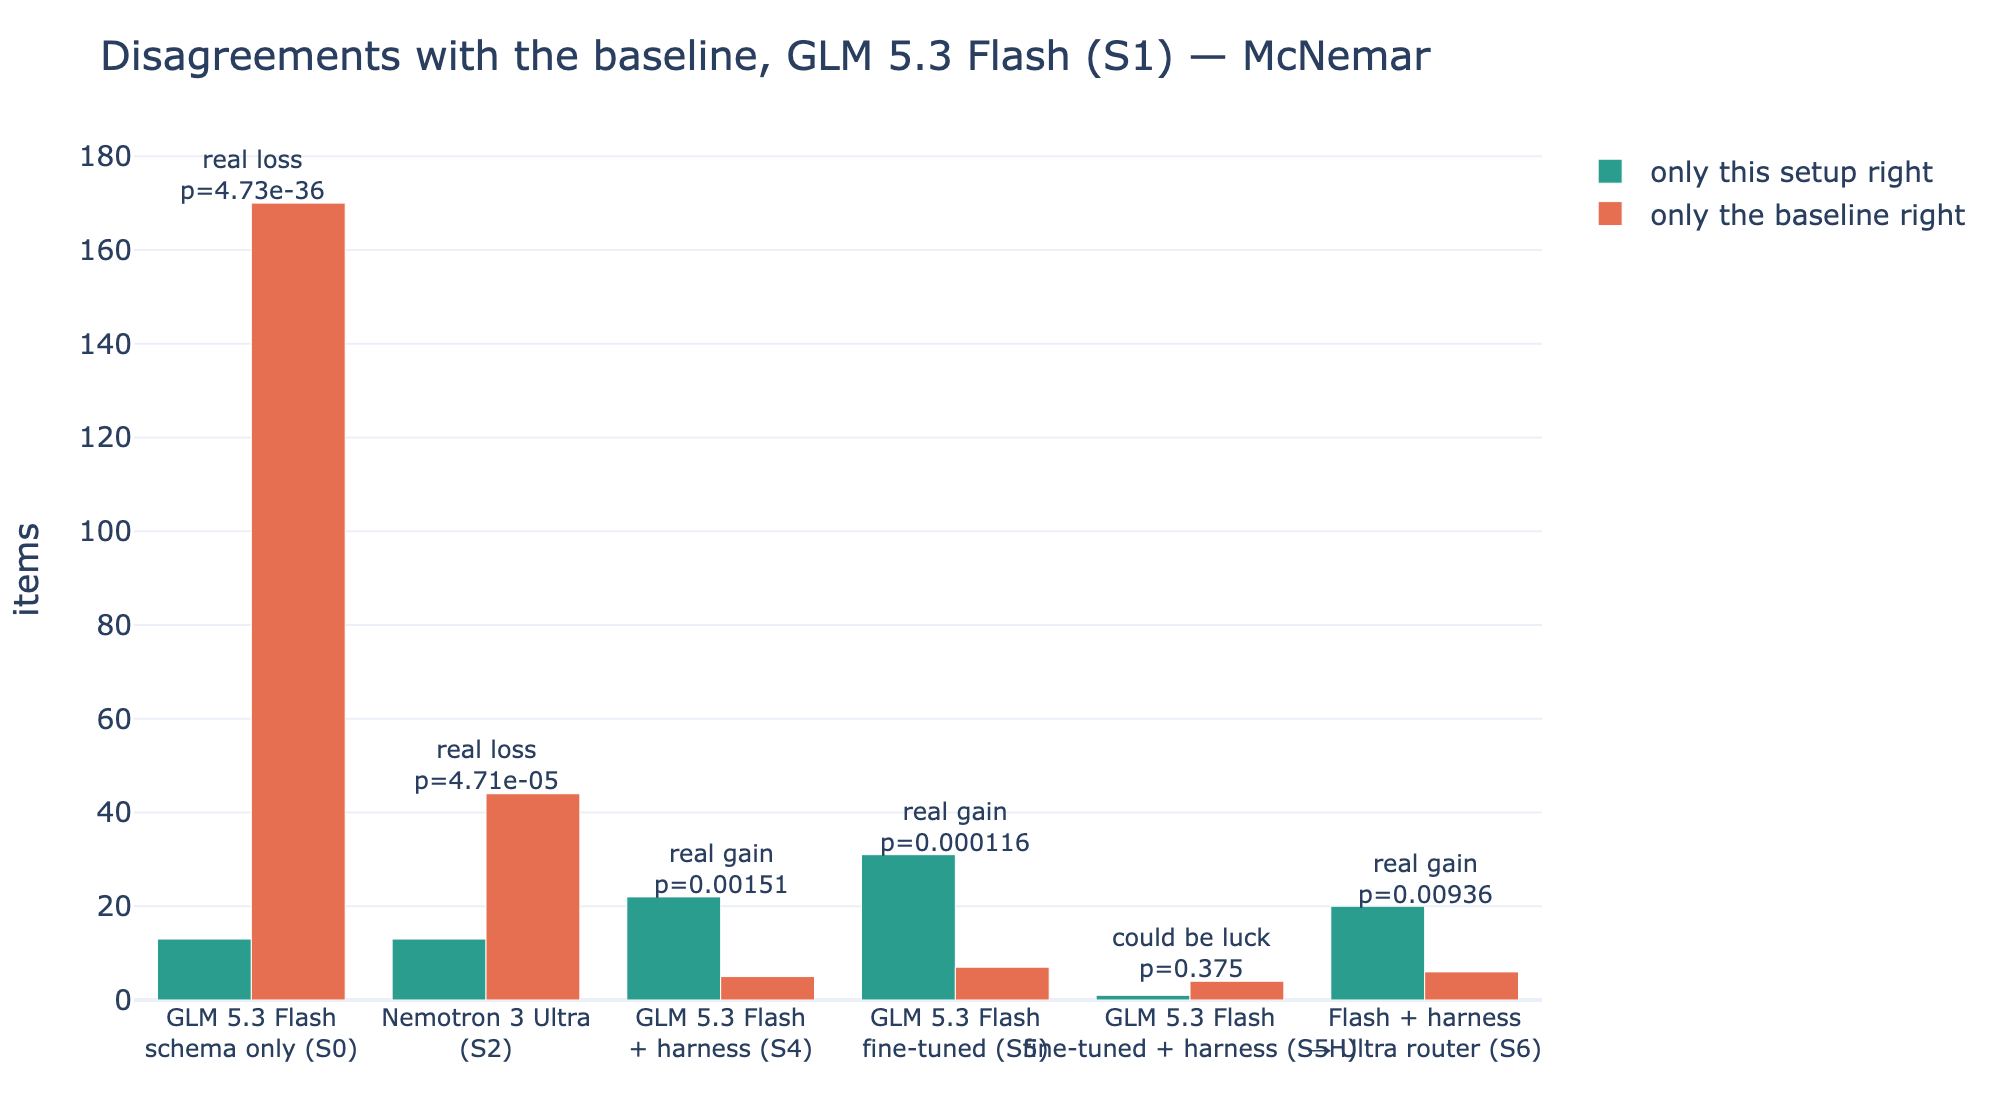
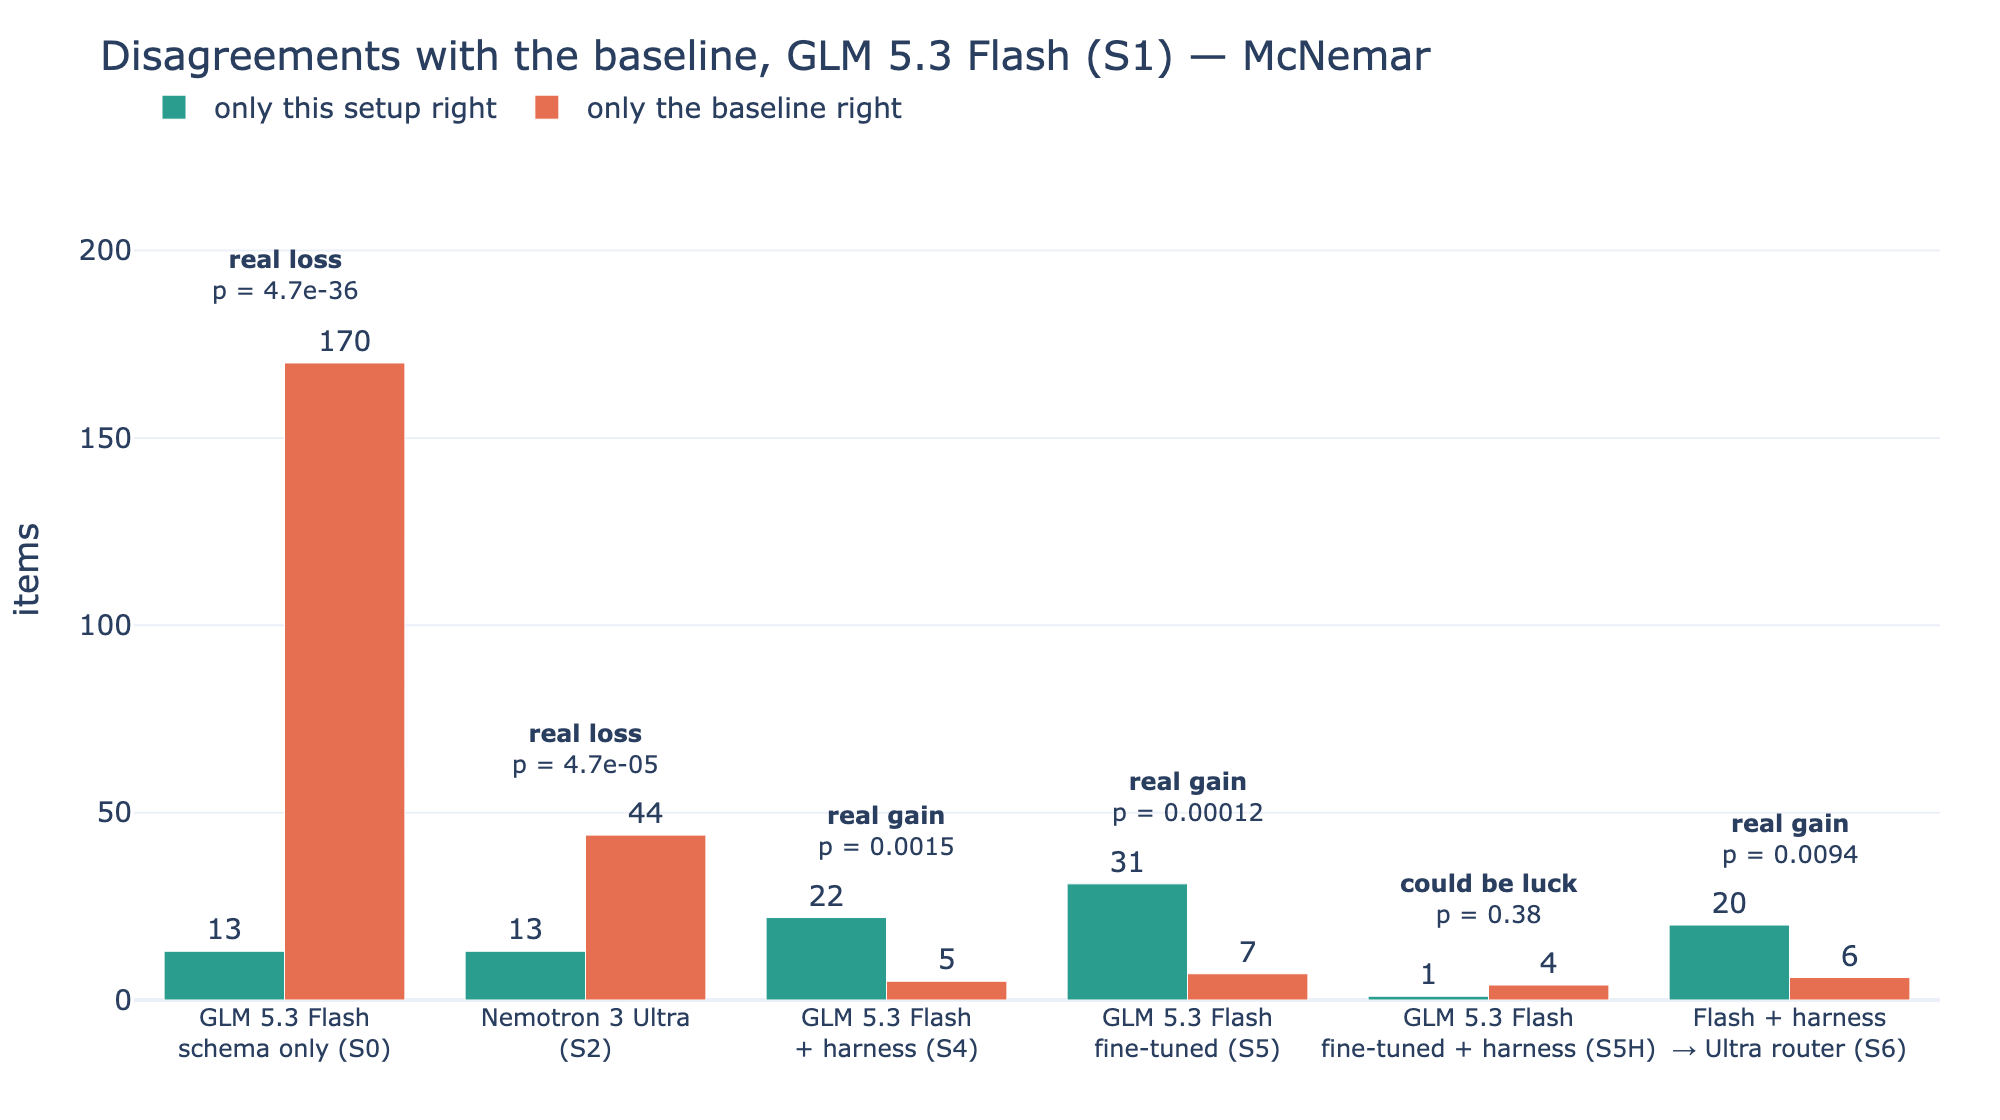
Headline S4 vs S1, watches-gifts default ticket, non-overlapping significance labels, Ask intro + How it works

diff --git a/eval/report.py b/eval/report.py
@@ -19,6 +19,7 @@ from eval.stats import compare_runs, load_run  # noqa: E402
 CFG = yaml.safe_load(open(ROOT / "config.yaml"))
 FIG = ROOT / CFG["paths"]["figures"]
 SETUPS = ["S0", "S1", "S2", "S4", "S5", "S5H", "S6"]
+HEADLINE_SETUP = "S4"  # recommended production setup (README findings)
 # Model name first, setup code as a tag (codes match eval/runs/ and config.yaml).
 LABELS = {"S0": "GLM 5.3 Flash, schema only (S0)", "S1": "GLM 5.3 Flash + dictionary, baseline (S1)",
           "S2": "Nemotron 3 Ultra + dictionary (S2)", "S4": "GLM 5.3 Flash + harness (S4)",
@@ -104,23 +105,34 @@ def main():
         }
     small = [s for s in present if s not in ("S1", "S2", "S0")]
     best = max(small, key=lambda s: summ[s]["combined"]["exec_accuracy"]) if small else None
+    # Headline = the recommended production setup (S4), not simply the top combined score: S5 scores higher
+    # on the frozen test but drops on hand-written questions (see README findings).
+    head = HEADLINE_SETUP if HEADLINE_SETUP in present else best
 
     # 1. Headline table
-    b, n = summ["S1"]["combined"], summ[best]["combined"] if best else None
+    b, n = summ["S1"]["combined"], summ[head]["combined"] if head else None
     headline = [("Execution accuracy (answer items)", b["exec_accuracy"], n and n["exec_accuracy"], True),
+                ("Hand-written questions (n = 30)", summ["S1"]["handwritten"]["exec_accuracy"],
+                 summ[head].get("handwritten", {}).get("exec_accuracy"), True),
                 ("Behavior accuracy (clarify/refuse)", b["behavior_accuracy"], n and n["behavior_accuracy"], True),
                 ("Cost per 1k tickets (USD)", b["cost_per_1k"], n and n["cost_per_1k"], False),
                 ("p50 latency (ms)", b["p50_latency_ms"], n and n["p50_latency_ms"], False)]
-    md = [f"### Headline: {LABELS[best]} vs S1 baseline (combined test + hand-written)\n",
-          "| Metric | S1 baseline | Best | Gain |", "|---|---|---|---|"]
+    md = [f"### Headline: {LABELS[head]} vs {LABELS['S1']} (combined test + hand-written)\n",
+          f"| Metric | {LABELS['S1']} | {LABELS[head]} | Gain |", "|---|---|---|---|"]
     for name, x, y, pct in headline:
         gain = None if y is None or x is None else (gap_pts(y, x) if pct else y - x)
         g = "-" if gain is None else (f"{gain:+.1f} pts" if pct else f"{gain:+.3f}" if isinstance(gain, float) else f"{gain:+d}")
         md.append(f"| {name} | {fmt(x, pct)} | {fmt(y, pct)} | {g} |")
-    st = stats[best]["answer_combined"]
+    st = stats[head]["answer_combined"]
     md.append(f"\nAccuracy gap {gap_pts(st['new_acc'], st['base_acc']):+.1f} pts, 95% cluster-bootstrap CI [{100 * st['ci95'][0]:+.1f}, "
-              f"{100 * st['ci95'][1]:+.1f}], McNemar p = {st['p_value']:.4f} ({st['only_new_right']} items only {best} "
+              f"{100 * st['ci95'][1]:+.1f}], McNemar p = {st['p_value']:.4f} ({st['only_new_right']} items only {head} "
               f"got right vs {st['only_base_right']} only S1 got right) -> **{st['verdict']}**.\n")
+    if best and best != head:
+        v = stats[best]["answer_combined"]
+        md.append(f"{LABELS[best]} has the highest combined score ({fmt(summ[best]['combined']['exec_accuracy'])}, "
+                  f"{gap_pts(v['new_acc'], v['base_acc']):+.1f} pts vs S1), but drops on the hand-written questions "
+                  f"({fmt(summ[best].get('handwritten', {}).get('exec_accuracy'))} vs "
+                  f"{fmt(summ['S1']['handwritten']['exec_accuracy'])}), so it is not the headline. See the findings below.\n")
 
     # Summary table
     md += ["### All setups\n",
@@ -176,16 +188,21 @@ def main():
     # 3. Significance chart
     comp = [s for s in ["S0", "S2", "S4", "S5", "S5H", "S6"] if s in stats and stats[s]["answer_combined"]]
     fig = go.Figure()
-    fig.add_bar(name="only this setup right", x=[CHART[s] for s in comp],
-                y=[stats[s]["answer_combined"]["only_new_right"] for s in comp], marker_color="#2a9d8f")
-    fig.add_bar(name="only the baseline right", x=[CHART[s] for s in comp],
-                y=[stats[s]["answer_combined"]["only_base_right"] for s in comp], marker_color="#e76f51")
-    for s in comp:
+    new_right = [stats[s]["answer_combined"]["only_new_right"] for s in comp]
+    base_right = [stats[s]["answer_combined"]["only_base_right"] for s in comp]
+    fig.add_bar(name="only this setup right", x=[CHART[s] for s in comp], y=new_right, marker_color="#2a9d8f",
+                text=new_right, textposition="outside", cliponaxis=False)
+    fig.add_bar(name="only the baseline right", x=[CHART[s] for s in comp], y=base_right, marker_color="#e76f51",
+                text=base_right, textposition="outside", cliponaxis=False)
+    top = max(new_right + base_right)
+    for s, a, b_ in zip(comp, new_right, base_right):
         v = stats[s]["answer_combined"]
-        fig.add_annotation(x=CHART[s], y=max(v["only_new_right"], v["only_base_right"]) + 6,
-                           text=f"{v['verdict']}<br>p={v['p_value']:.3g}", showarrow=False, font=dict(size=12))
+        # Verdict sits above both bars and their value labels, anchored at its bottom so it never overlaps them.
+        fig.add_annotation(x=CHART[s], y=max(a, b_), yanchor="bottom", yshift=26, showarrow=False,
+                           text=f"<b>{v['verdict']}</b><br>p = {v['p_value']:.2g}", font=dict(size=12))
     fig.update_layout(title="Disagreements with the baseline, GLM 5.3 Flash (S1) — McNemar", barmode="group",
-                      yaxis_title="items")
+                      yaxis=dict(title="items", range=[0, top * 1.35]),
+                      legend=dict(orientation="h", yanchor="bottom", y=1.0, x=0))
     save(fig, "significance", category_x=True)
 
     # 4. Interval chart
@@ -225,7 +242,7 @@ def main():
                       yaxis=dict(title="accuracy (%)", range=[0, 105]))
     save(fig, "seen_unseen", category_x=True)
 
-    json.dump({"best_setup": best, "summaries": summ, "stats_vs_S1": stats}, open(ROOT / "eval" / "summary.json", "w"), indent=1)
+    json.dump({"best_setup": best, "headline_setup": head, "summaries": summ, "stats_vs_S1": stats}, open(ROOT / "eval" / "summary.json", "w"), indent=1)
     readme = ROOT / "README.md"
     if readme.exists():
         text = readme.read_text()

diff --git a/app/streamlit_app.py b/app/streamlit_app.py
@@ -225,7 +225,28 @@ page = st.sidebar.radio("Page", ["Ask", "Benchmark", "Audit log"])
 
 if page == "Ask":
     st.title("QueryForge")
-    st.caption("Ask a data question in plain English. Answers come from the Olist database (as of 2018-08-31), read-only.")
+    st.markdown(
+        "Ask a data question the way you'd write a ticket. QueryForge writes the SQL, runs it read-only against the "
+        "Olist e-commerce database (data as of 2018-08-31), checks the result, and answers in seconds, with the SQL "
+        "and the business rules it applied. Compare mode runs the same ticket on the plain baseline model so you can "
+        "see the difference.")
+    with st.expander("How it works"):
+        st.markdown(
+            "1. **Pre-filter:** requests to change or delete data, requests for personal data, prompt injection and "
+            "non-data questions are refused before any model call.\n"
+            "2. **Context:** the model, GLM 5.3 Flash on Fireworks, gets the schema, the company's **business "
+            "rules** (valid order, GMV, active seller, late delivery, fiscal year, as-of date…) and the real values of "
+            "key columns (statuses, states, category names).\n"
+            "3. **SQL:** the model returns one SELECT query, or asks a clarifying question if the ticket is ambiguous.\n"
+            "4. **Safety:** the query is parsed, must be a single read-only SELECT, and can only use known tables. It "
+            "runs on a read-only connection with a 10-second timeout.\n"
+            "5. **Retry and checks:** if the query fails, the error goes back to the model (up to 2 retries). Sanity "
+            "checks catch empty results, rates outside 0–1 and too many rows, and the model gets one chance to repair.\n"
+            "6. **Answer:** a plain-English answer, the table, the SQL, the rules applied and a confidence level. Every "
+            "ticket is written to the audit log, where a reviewer can approve or flag it.\n\n"
+            "**Baseline vs QueryForge:** both use GLM 5.3 Flash with the same prompt and business rules. The baseline "
+            "is a single model call. QueryForge adds steps 1, 2 (column values), 5 and the review flow. On the frozen "
+            "benchmark that lifts accuracy from 90.7% to 94.9% (p = 0.0015). See the Benchmark page.")
     c1, c2, c3 = st.columns([2, 1, 1])
     requester = c1.text_input("Requester", "kam@company.com")
     role = c2.selectbox("Role", ["analyst", "pm", "auditor", "ops"])
@@ -241,7 +262,7 @@ if page == "Ask":
     for col, (label, question) in zip(st.columns(len(EXAMPLES)), EXAMPLES):
         col.button(label, key=f"ex_{label}", on_click=use_example, args=(question,), width="stretch", help=question)
 
-    st.session_state.setdefault("ticket", "whats the late delivery rate by customer region for last month")
+    st.session_state.setdefault("ticket", "how many watches gifts products are in the catalog")
     q = st.text_area("Ticket", height=90, key="ticket")
     t1, t2 = st.columns(2)
     compare_mode = t1.toggle("Compare Baseline (GLM 5.3 Flash) vs QueryForge (GLM 5.3 Flash + harness)",

diff --git a/README.md b/README.md
@@ -33,16 +33,19 @@ ticket ─► pre-filter ─► model writes SQL ─► safety check ─► read
 | S6 | GLM 5.3 Flash + harness, escalating to Nemotron 3 Ultra |
 
 <!-- RESULTS:START -->
-### Headline: GLM 5.3 Flash fine-tuned (S5) vs S1 baseline (combined test + hand-written)
+### Headline: GLM 5.3 Flash + harness (S4) vs GLM 5.3 Flash + dictionary, baseline (S1) (combined test + hand-written)
 
-| Metric | S1 baseline | Best | Gain |
+| Metric | GLM 5.3 Flash + dictionary, baseline (S1) | GLM 5.3 Flash + harness (S4) | Gain |
 |---|---|---|---|
-| Execution accuracy (answer items) | 90.7% | 96.7% | +6.0 pts |
-| Behavior accuracy (clarify/refuse) | 92.0% | 100.0% | +8.0 pts |
-| Cost per 1k tickets (USD) | 0.4674 | 0.2907 | -0.177 |
-| p50 latency (ms) | 3143 | 4008 | +865 |
+| Execution accuracy (answer items) | 90.7% | 94.9% | +4.2 pts |
+| Hand-written questions (n = 30) | 83.3% | 90.0% | +6.7 pts |
+| Behavior accuracy (clarify/refuse) | 92.0% | 92.0% | +0.0 pts |
+| Cost per 1k tickets (USD) | 0.4674 | 0.523 | +0.056 |
+| p50 latency (ms) | 3143 | 3240 | +97 |
 
-Accuracy gap +6.0 pts, 95% cluster-bootstrap CI [+1.8, +11.0], McNemar p = 0.0001 (31 items only S5 got right vs 7 only S1 got right) -> **real gain**.
+Accuracy gap +4.2 pts, 95% cluster-bootstrap CI [+1.1, +7.9], McNemar p = 0.0015 (22 items only S4 got right vs 5 only S1 got right) -> **real gain**.
+
+GLM 5.3 Flash fine-tuned (S5) has the highest combined score (96.7%, +6.0 pts vs S1), but drops on the hand-written questions (70.0% vs 83.3%), so it is not the headline. See the findings below.
 
 ### All setups
 

diff --git a/eval/results.md b/eval/results.md
@@ -1,13 +1,16 @@
-### Headline: GLM 5.3 Flash fine-tuned (S5) vs S1 baseline (combined test + hand-written)
+### Headline: GLM 5.3 Flash + harness (S4) vs GLM 5.3 Flash + dictionary, baseline (S1) (combined test + hand-written)
 
-| Metric | S1 baseline | Best | Gain |
+| Metric | GLM 5.3 Flash + dictionary, baseline (S1) | GLM 5.3 Flash + harness (S4) | Gain |
 |---|---|---|---|
-| Execution accuracy (answer items) | 90.7% | 96.7% | +6.0 pts |
-| Behavior accuracy (clarify/refuse) | 92.0% | 100.0% | +8.0 pts |
-| Cost per 1k tickets (USD) | 0.4674 | 0.2907 | -0.177 |
-| p50 latency (ms) | 3143 | 4008 | +865 |
+| Execution accuracy (answer items) | 90.7% | 94.9% | +4.2 pts |
+| Hand-written questions (n = 30) | 83.3% | 90.0% | +6.7 pts |
+| Behavior accuracy (clarify/refuse) | 92.0% | 92.0% | +0.0 pts |
+| Cost per 1k tickets (USD) | 0.4674 | 0.523 | +0.056 |
+| p50 latency (ms) | 3143 | 3240 | +97 |
 
-Accuracy gap +6.0 pts, 95% cluster-bootstrap CI [+1.8, +11.0], McNemar p = 0.0001 (31 items only S5 got right vs 7 only S1 got right) -> **real gain**.
+Accuracy gap +4.2 pts, 95% cluster-bootstrap CI [+1.1, +7.9], McNemar p = 0.0015 (22 items only S4 got right vs 5 only S1 got right) -> **real gain**.
+
+GLM 5.3 Flash fine-tuned (S5) has the highest combined score (96.7%, +6.0 pts vs S1), but drops on the hand-written questions (70.0% vs 83.3%), so it is not the headline. See the findings below.
 
 ### All setups
 
